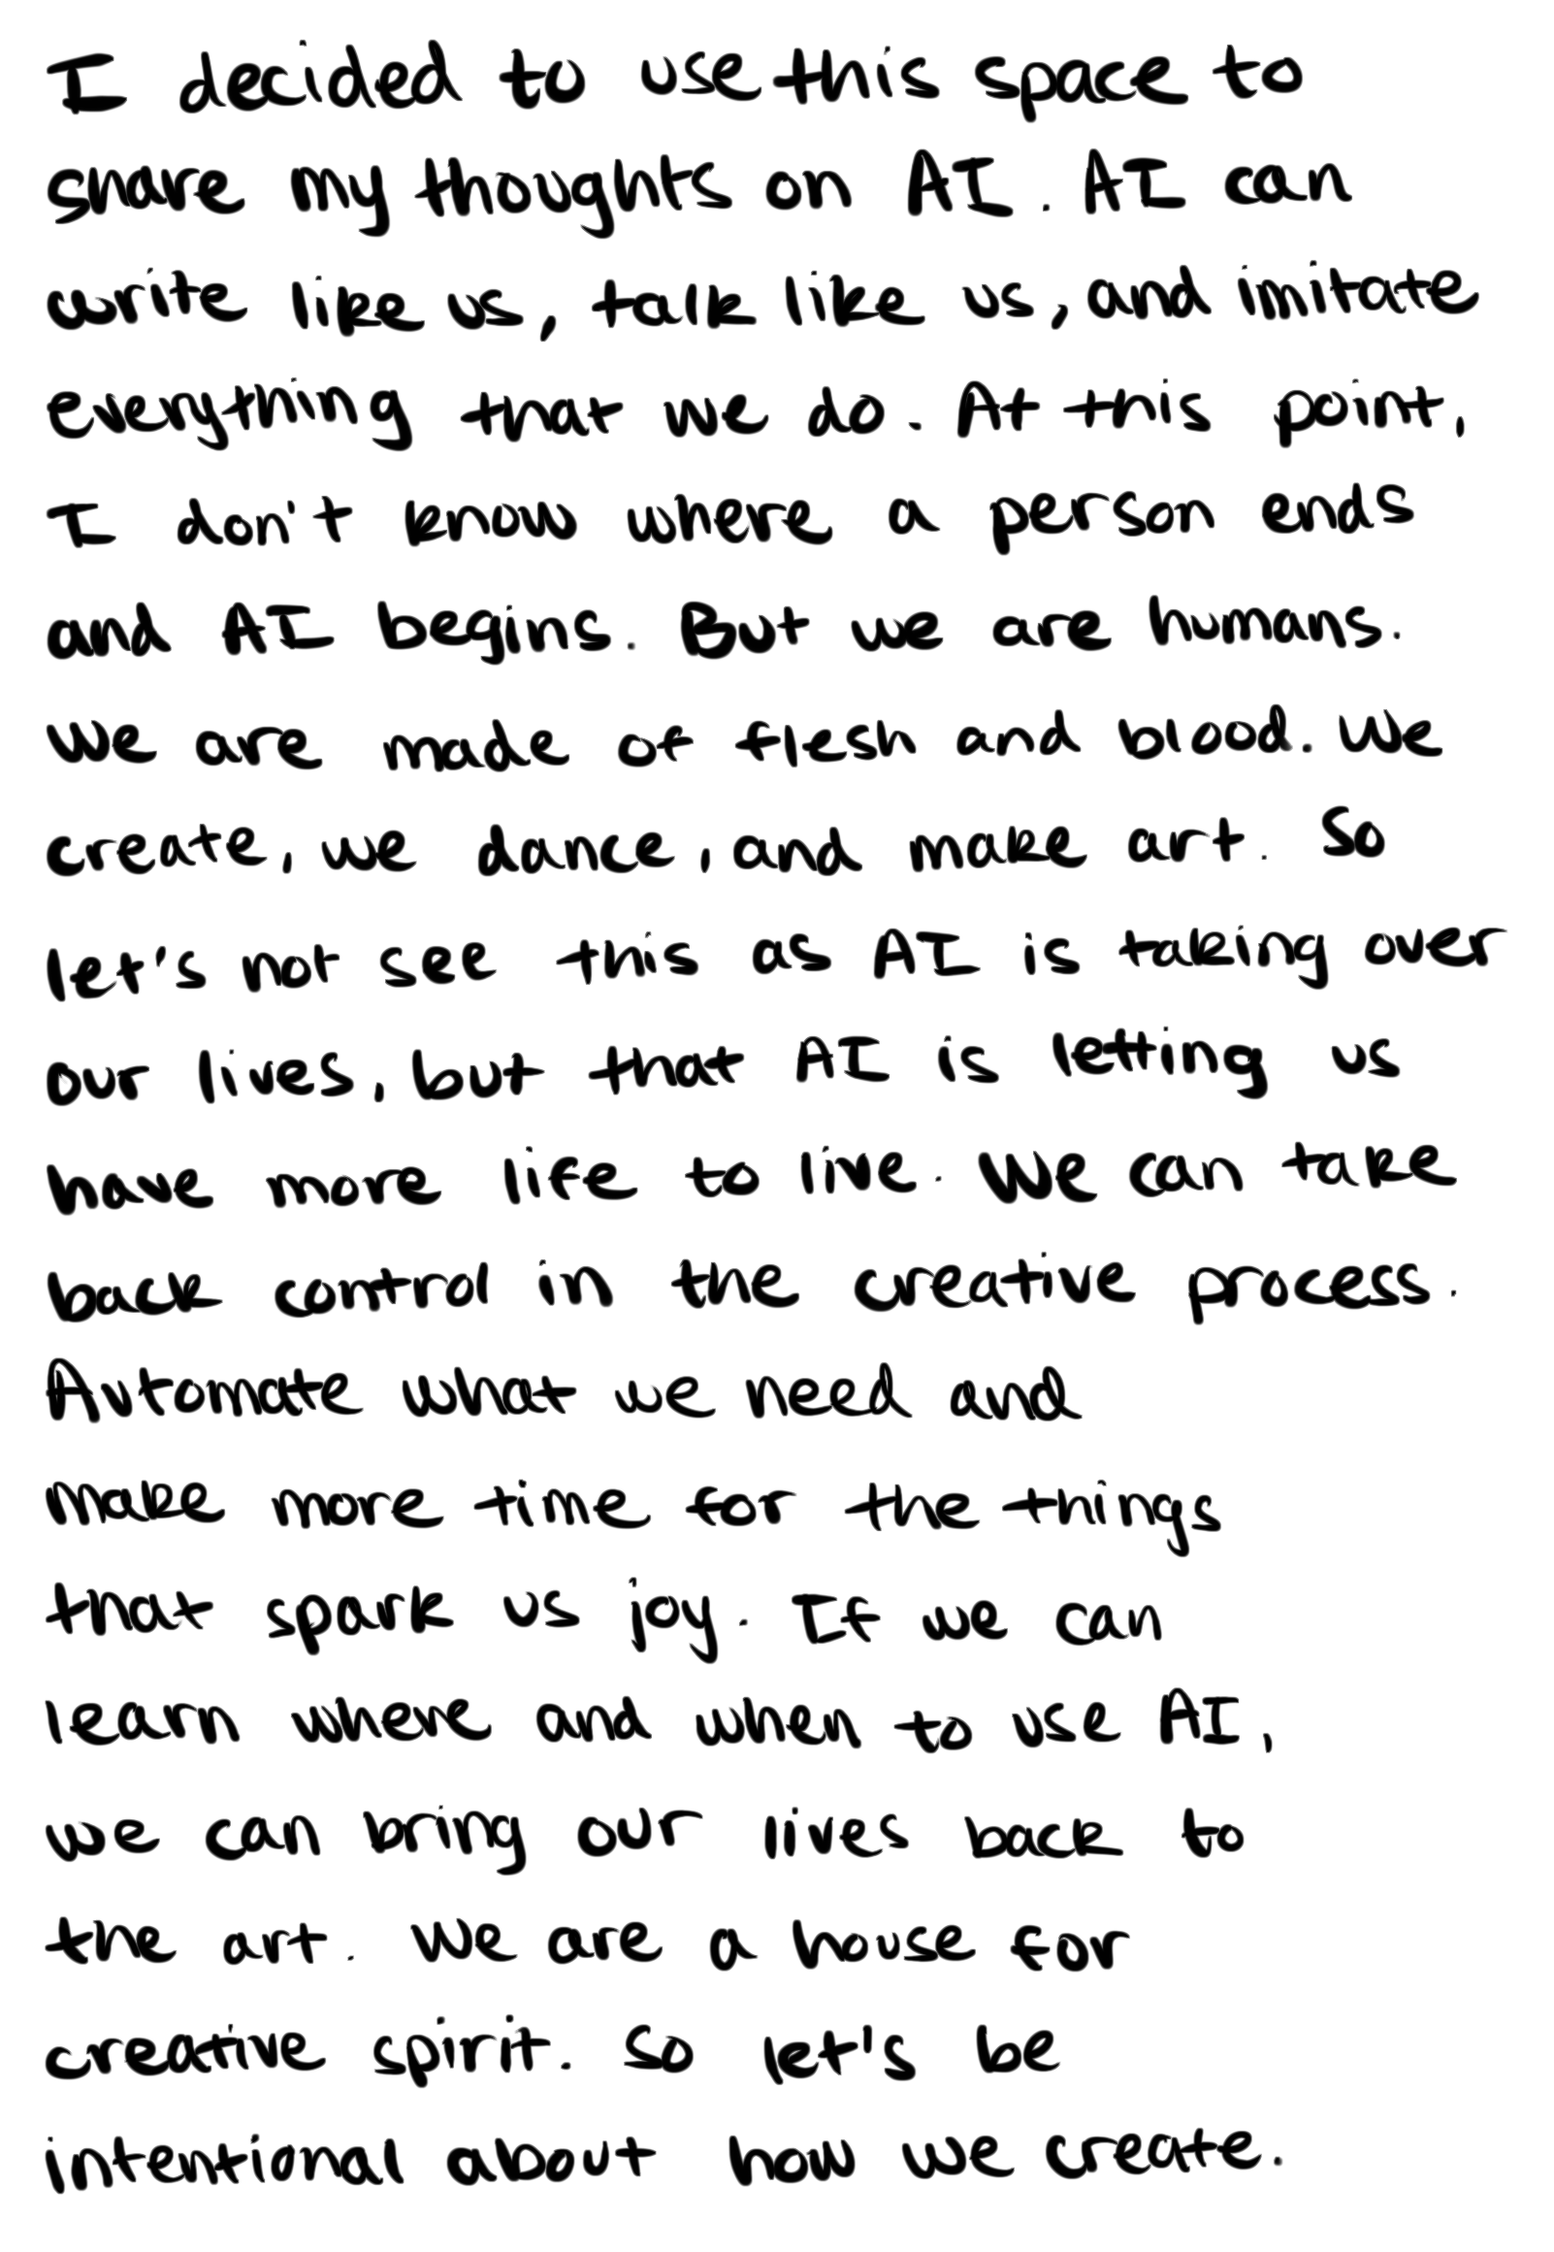
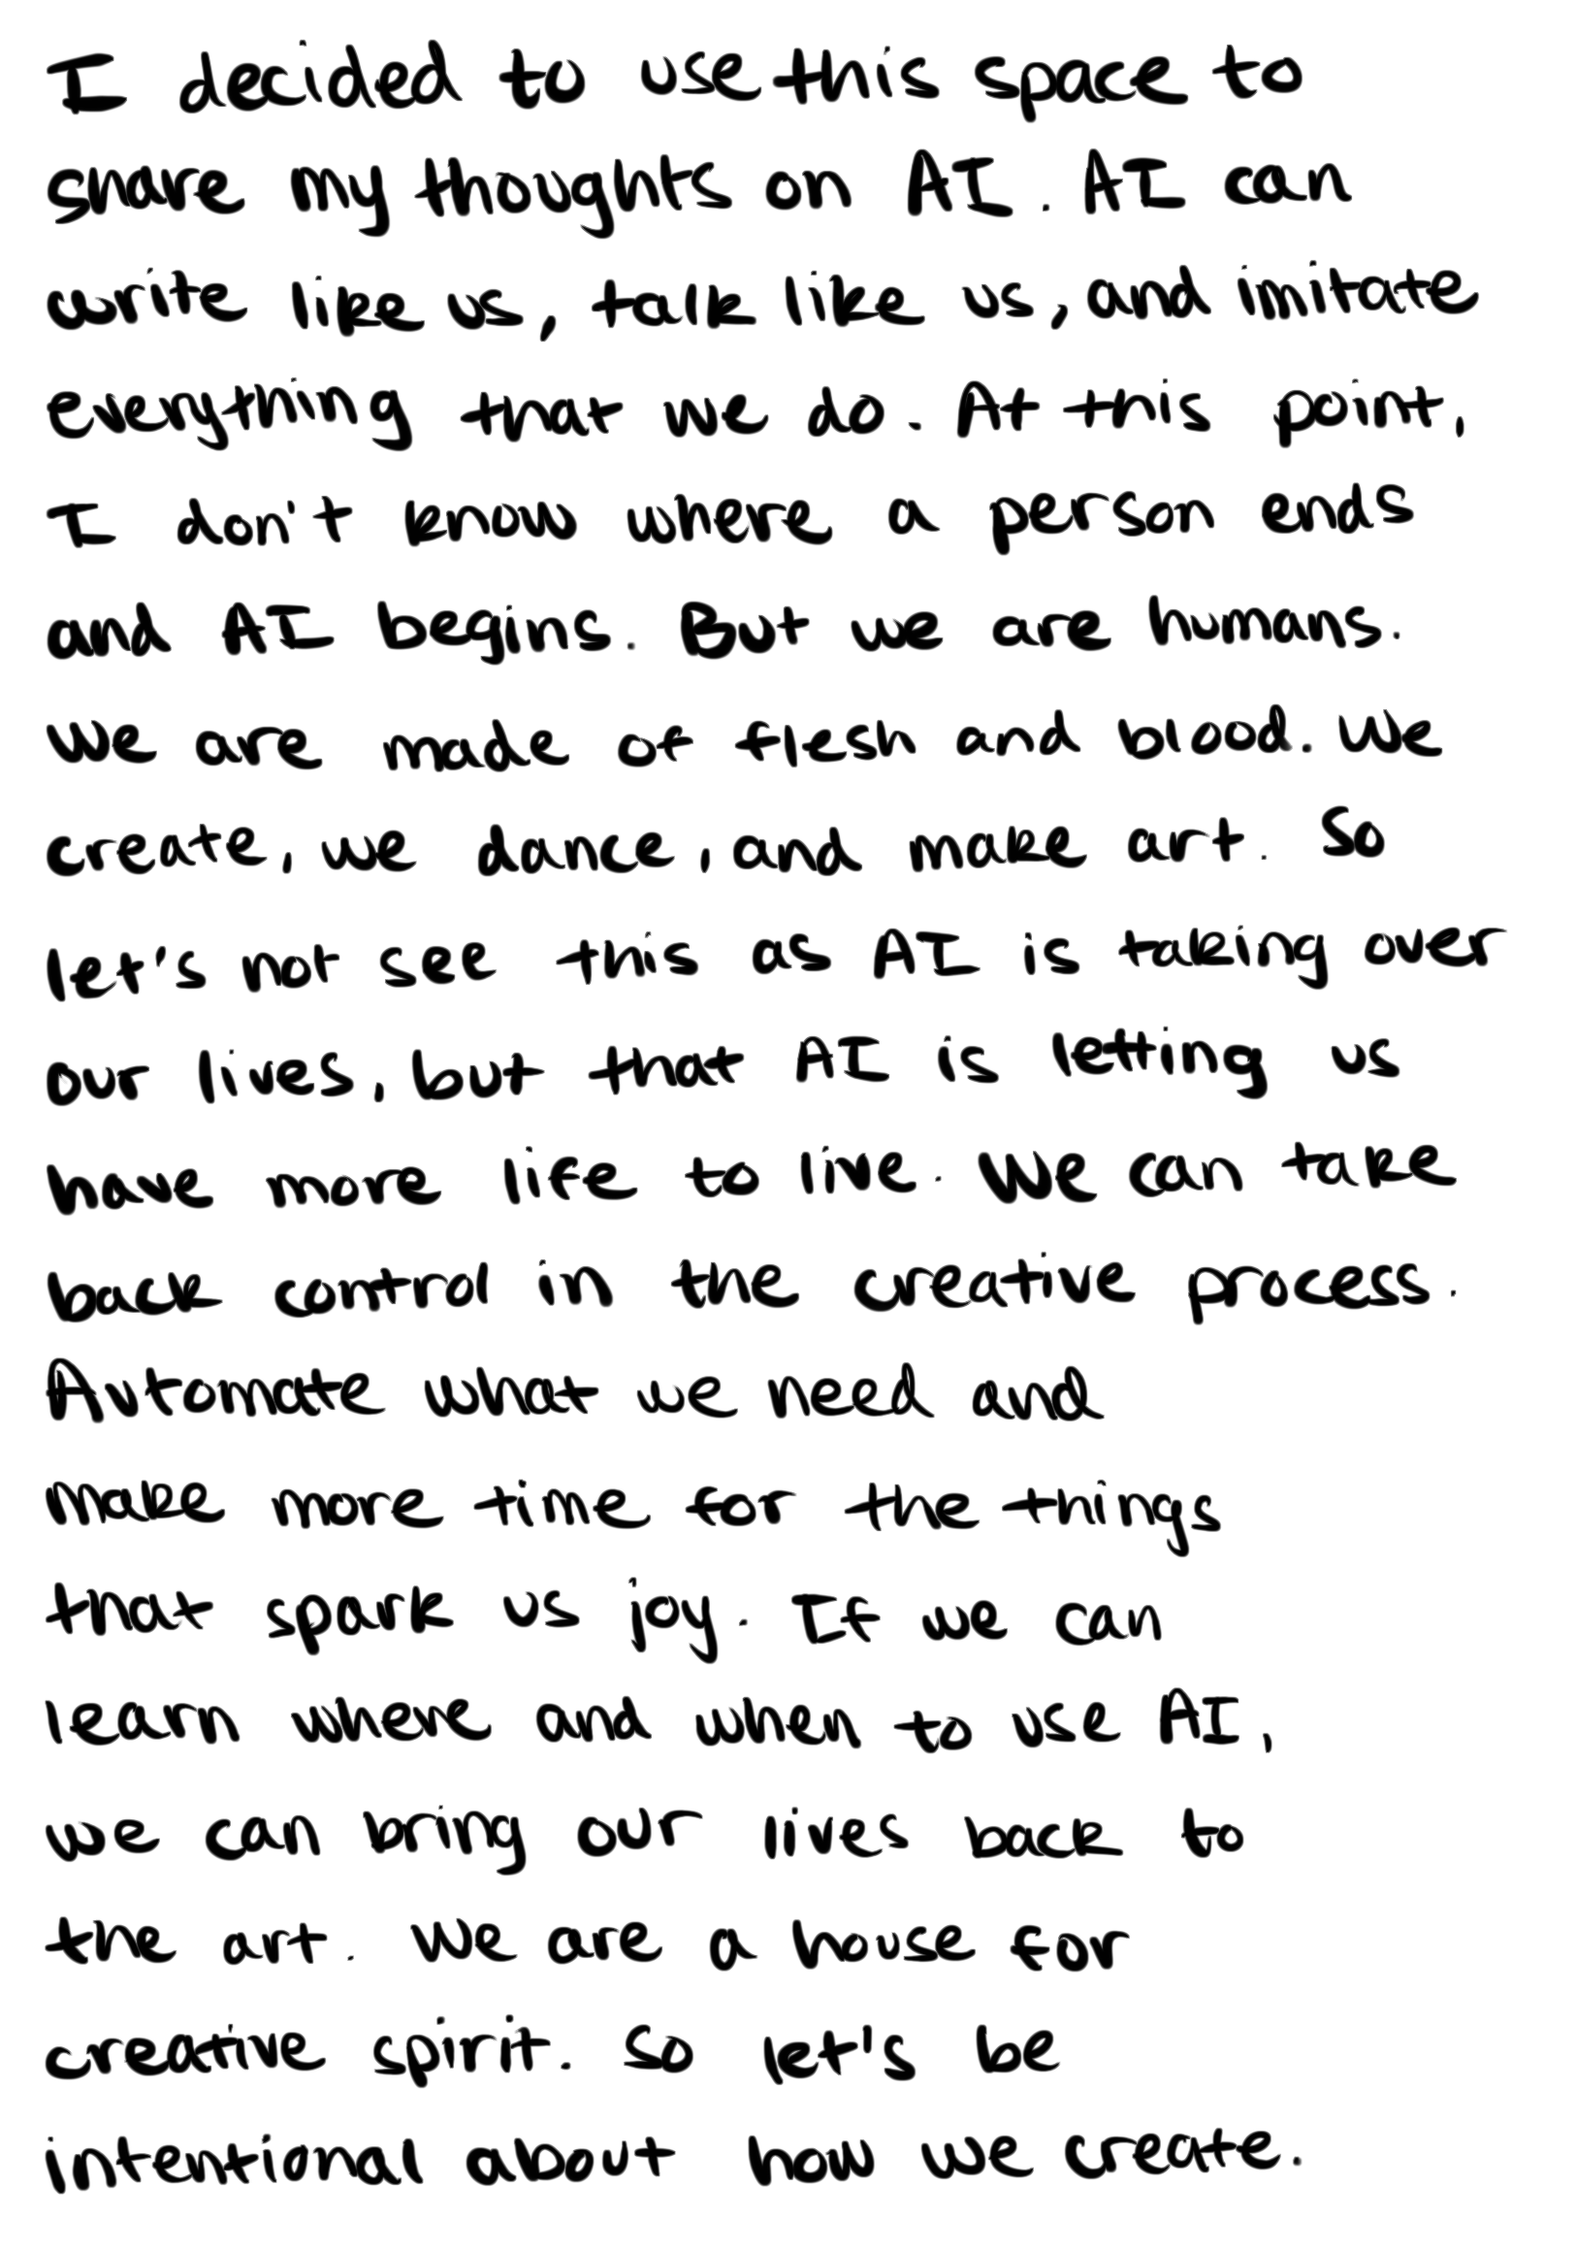
Good enough stop changing

diff --git a/src/pages/about/manifesto-words.ts b/src/pages/about/manifesto-words.ts
@@ -54,7 +54,7 @@ export const X_HEIGHT = 10;
 /** Full source-mask dimensions in the same normalized unit space. */
 export const MANIFESTO_SOURCES = {
   title: { w: 391.3, h: 521.8 },
-  body: { w: 387.0, h: 560.7 },
+  body: { w: 392.5, h: 560.7 },
 } as const;
 
 /** Build-time measurements used to match the two authored body exports. */
@@ -158,11 +158,11 @@ export const MANIFESTO_WORDS: ManifestoWord[] = [
   { t: "the", l: 12, s: "body", x: 166.2, y: 312.6, w: 33.8, h: 14.3, b: 12.8, n: 0.0, m: [] },
   { t: "creative", l: 12, s: "body", x: 211.6, y: 310.6, w: 72.0, h: 16.9, b: 14.5, n: 0.0, m: [{ x: 47.3, y: 0.5, w: 2.4, h: 2.7, mx: -259.0, my: -311.1 }] },
   { t: "process.", l: 12, s: "body", x: 294.9, y: 313.5, w: 68.6, h: 17.4, b: 11.6, n: 0.0, m: [{ x: 65.9, y: 7.2, w: 2.4, h: 2.7, mx: -360.9, my: -320.8 }] },
-  { t: "Automate", l: 13, s: "body", x: 10.4, y: 337.2, w: 81.2, h: 18.1, b: 15.0, n: 0.0, m: [] },
-  { t: "what", l: 13, s: "body", x: 99.3, y: 339.4, w: 45.2, h: 14.5, b: 12.6, n: 0.0, m: [] },
-  { t: "we", l: 13, s: "body", x: 152.2, y: 341.8, w: 26.8, h: 12.1, b: 10.6, n: 0.0, m: [] },
-  { t: "need", l: 13, s: "body", x: 184.8, y: 338.2, w: 43.2, h: 15.9, b: 14.0, n: 0.0, m: [] },
-  { t: "and", l: 13, s: "body", x: 235.8, y: 339.2, w: 34.8, h: 15.7, b: 14.0, n: 0.0, m: [] },
+  { t: "Automate", l: 13, s: "body", x: 10.4, y: 337.2, w: 86.7, h: 18.1, b: 15.0, n: 0.0, m: [] },
+  { t: "what", l: 13, s: "body", x: 104.8, y: 339.4, w: 45.2, h: 14.5, b: 12.6, n: 0.0, m: [] },
+  { t: "we", l: 13, s: "body", x: 157.7, y: 341.8, w: 26.8, h: 12.1, b: 10.6, n: 0.0, m: [] },
+  { t: "need", l: 13, s: "body", x: 190.3, y: 338.2, w: 43.2, h: 15.9, b: 14.0, n: 0.0, m: [] },
+  { t: "and", l: 13, s: "body", x: 241.3, y: 339.2, w: 34.8, h: 15.7, b: 14.0, n: 0.0, m: [] },
   { t: "make", l: 14, s: "body", x: 10.4, y: 367.7, w: 46.6, h: 13.0, b: 11.1, n: 0.0, m: [] },
   { t: "more", l: 14, s: "body", x: 66.7, y: 369.8, w: 44.7, h: 11.8, b: 10.1, n: 0.0, m: [] },
   { t: "time", l: 14, s: "body", x: 117.2, y: 367.4, w: 45.9, h: 14.3, b: 12.6, n: 0.0, m: [{ x: 11.6, y: 0.5, w: 3.1, h: 3.1, mx: -128.8, my: -367.9 }] },
@@ -202,9 +202,9 @@ export const MANIFESTO_WORDS: ManifestoWord[] = [
   { t: "So", l: 19, s: "body", x: 154.4, y: 503.2, w: 19.3, h: 14.0, b: 12.6, n: 0.0, m: [] },
   { t: "let's", l: 19, s: "body", x: 189.4, y: 503.2, w: 39.6, h: 16.9, b: 14.5, n: 0.0, m: [] },
   { t: "be", l: 19, s: "body", x: 242.3, y: 503.2, w: 22.7, h: 14.0, b: 12.6, n: 0.0, m: [] },
-  { t: "intentional", l: 20, s: "body", x: 10.4, y: 530.2, w: 91.1, h: 16.9, b: 13.3, n: 0.0, m: [{ x: 1.0, y: 1.2, w: 2.4, h: 2.4, mx: -11.4, my: -531.4 }, { x: 51.5, y: 0.5, w: 3.4, h: 3.6, mx: -61.8, my: -530.7 }] },
-  { t: "about", l: 20, s: "body", x: 110.4, y: 530.9, w: 53.9, h: 14.3, b: 12.1, n: 0.0, m: [] },
-  { t: "how", l: 20, s: "body", x: 180.7, y: 530.7, w: 33.3, h: 14.5, b: 12.6, n: 0.0, m: [] },
-  { t: "we", l: 20, s: "body", x: 223.7, y: 530.7, w: 29.7, h: 12.8, b: 11.1, n: 0.0, m: [] },
-  { t: "create.", l: 20, s: "body", x: 259.4, y: 528.8, w: 60.9, h: 14.7, b: 12.3, n: 0.0, m: [{ x: 57.2, y: 7.7, w: 3.4, h: 3.4, mx: -316.7, my: -536.5 }] },
+  { t: "intentional", l: 20, s: "body", x: 10.4, y: 530.2, w: 95.9, h: 16.9, b: 13.4, n: 0.0, m: [{ x: 1.2, y: 1.2, w: 2.4, h: 2.4, mx: -11.6, my: -531.4 }, { x: 54.4, y: 0.5, w: 3.4, h: 3.6, mx: -64.7, my: -530.7 }] },
+  { t: "about", l: 20, s: "body", x: 115.2, y: 530.9, w: 53.9, h: 14.3, b: 12.1, n: 0.0, m: [] },
+  { t: "how", l: 20, s: "body", x: 185.5, y: 530.7, w: 33.3, h: 14.5, b: 12.6, n: 0.0, m: [] },
+  { t: "we", l: 20, s: "body", x: 228.5, y: 530.7, w: 29.7, h: 12.8, b: 11.1, n: 0.0, m: [] },
+  { t: "create.", l: 20, s: "body", x: 264.3, y: 528.8, w: 60.9, h: 14.7, b: 12.3, n: 0.0, m: [{ x: 57.2, y: 7.7, w: 3.4, h: 3.4, mx: -321.5, my: -536.5 }] },
 ];

diff --git a/public/cs-final/cs-final.html b/public/cs-final/cs-final.html
@@ -223,9 +223,9 @@ figure img,.shot img{display:block;width:100%;height:auto;border:1px solid var(-
 @media (max-width:640px){.lyr{grid-template-columns:repeat(2,1fr)}}
 
 /* The component spec lives as one dark prototype, echoing the working rail above. */
-.tile-breakdown{margin-top:26px;background:var(--max-ink);border:1px solid var(--rule);
+.tile-breakdown{--breakdown-gap:19.2px;--specimen-gap:4.8px;--title-font-gap:16.848px;margin-top:26px;background:var(--max-ink);border:1px solid var(--rule);
   padding:clamp(18px,3vw,34px);overflow:hidden}
-.tile-breakdown-title{margin:0 0 19.2px;color:#fff;font-size:clamp(28px,3.8vw,44px);font-variation-settings:"wght" 640;
+.tile-breakdown-title{margin:0 0 var(--breakdown-gap);color:#fff;font-size:clamp(37.5px,5vw,55px);font-variation-settings:"wght" 640;
   letter-spacing:-.025em;line-height:1}
 .tile-breakdown .lyr{margin-top:0}
 .tile-breakdown .lyr-tile{border-color:rgba(255,255,255,.16)}
@@ -234,18 +234,18 @@ figure img,.shot img{display:block;width:100%;height:auto;border:1px solid var(-
   list-style:none;border-top:1px solid rgba(255,255,255,.16)}
 .layer-notes li{font-family:var(--fm);font-size:var(--fs-micro);line-height:1.65;color:#a6a6b0}
 .layer-notes b{display:block;color:#d8d8de;font-weight:400;margin-bottom:3px}
-.irid-palette{margin-top:26px}
+.irid-palette{margin-top:var(--specimen-gap)}
 .irid-palette-label{margin:0 0 12px;font-family:var(--fm);font-size:var(--fs-micro);letter-spacing:.12em;
   text-transform:uppercase;color:#a6a6b0}
 .gradient-scale{position:relative;padding-bottom:30px}
-.gradient-bar{position:relative;height:44px;border:1px solid rgba(255,255,255,.18);background-image:var(--irid-banner)}
+.gradient-bar{position:relative;height:44px;background-image:var(--irid-banner)}
 .gradient-bar span{position:absolute;bottom:0;height:9px;width:1px;background:rgba(10,10,16,.55)}
 .gradient-labels{position:absolute;left:0;right:0;top:51px;height:18px}
 .gradient-labels code{position:absolute;transform:translateX(-50%);font-family:var(--fm);font-size:var(--fs-micro);
   line-height:1;color:#a6a6b0;white-space:nowrap}
 .gradient-labels code:first-child{transform:none}
 .gradient-labels code:last-child{transform:translateX(-100%)}
-.title-font-spec{display:inline-block;margin:26px 0 0;font-size:clamp(30px,4vw,48px);font-variation-settings:"wght" 640;
+.title-font-spec{display:inline-block;margin:var(--title-font-gap) 0 0;font-size:clamp(30px,4vw,48px);font-variation-settings:"wght" 640;
   letter-spacing:-.025em;line-height:1;background-image:var(--irid-banner);-webkit-background-clip:text;background-clip:text;color:transparent}
 @media (max-width:640px){.layer-notes{grid-template-columns:repeat(2,1fr)}}
 

diff --git a/src/pages/about/about.css b/src/pages/about/about.css
@@ -157,6 +157,7 @@
   --mf-body-row-step: clamp(26.4995px, calc(1.637685vw + 20.13965px), 41.09975px);
   width: calc(100% - (var(--grid-minor-step) * 2));
   margin-left: calc(var(--grid-minor-step) - 4px);
+  transform: translateY(1px);
   row-gap: 0;
 }
 
@@ -199,7 +200,7 @@
   align-self: start;
   /* Title height (48.8u) plus its body gap (10u) places the portrait at the
      visual start of the first body line rather than the title's top edge. */
-  margin-top: calc(var(--mf-title-u) * 58.8);
+  margin-top: calc(var(--mf-title-u) * 58.8 + 3px);
   width: clamp(250px, 26.25vw, 375px);
   aspect-ratio: 3 / 4;
   height: auto;

diff --git a/scripts/manifesto/build.py b/scripts/manifesto/build.py
@@ -81,6 +81,15 @@ LATE_BODY_START_LINE = 13
 LATE_BODY_DILATION_RADIUS = 0.625
 FRACTIONAL_DILATION_SCALE = 2
 
+# The second authored export is slightly tighter inside a couple of long
+# words. A restrained local width adjustment opens their internal rhythm while
+# leaving the rest of every line untouched. This resamples authored alpha only:
+# no tracing, smoothing, or redrawing.
+LATE_WORD_LETTER_SPACING = {
+    (13, "Automate"): {"scale": 1.07},
+    (20, "intentional"): {"scale": 1.055},
+}
+
 ALPHA_THRESHOLD = 4   # includes antialiasing while ignoring zero-alpha canvas
 MIN_SPECK = 5         # smallest confident tittle in the authored body export
 FAINT_SPECK_ALPHA = 64  # reject tiny export dust unless its alpha is confident
@@ -506,6 +515,91 @@ def segment_source(path, text, line_offset, key):
     )
 
 
+def write_letter_spaced_body_mask(source_path, source, output_path):
+    """Open selected authored words with a smooth, restrained local resample."""
+    image = Image.open(source_path).convert("RGBA")
+    pixels = np.asarray(image)
+    corrections = {}
+
+    for (line, text), adjustment in LATE_WORD_LETTER_SPACING.items():
+        word = next(
+            (
+                row for row in source["rows"]
+                if row["line"] == line and row["text"] == text
+            ),
+            None,
+        )
+        if word is None:
+            sys.exit(f"missing letter-spacing target: line {line} {text!r}")
+        corrections.setdefault(line, []).append(
+            (word, adjustment["scale"])
+        )
+
+    max_insert = max(
+        sum(
+            round((word["x1"] - word["x0"] + 1) * scale)
+            - (word["x1"] - word["x0"] + 1)
+            for word, scale in words
+        )
+        for words in corrections.values()
+    )
+    result = np.zeros(
+        (image.height, image.width + max_insert, 4),
+        dtype=pixels.dtype,
+    )
+
+    centers = [(start + stop) / 2 for start, stop in source["bands"]]
+    boundaries = [0]
+    boundaries.extend(
+        round((left + right) / 2)
+        for left, right in zip(centers, centers[1:])
+    )
+    boundaries.append(image.height)
+
+    for index, (top, bottom) in enumerate(
+        zip(boundaries, boundaries[1:])
+    ):
+        line = index + len(TITLE_TEXT)
+        words = sorted(
+            corrections.get(line, []),
+            key=lambda correction: correction[0]["x0"],
+        )
+        source_x = 0
+        destination_x = 0
+        for word, scale in words:
+            word_left = min(max(word["x0"], source_x), image.width)
+            word_right = min(max(word["x1"] + 1, word_left), image.width)
+            width = word_left - source_x
+            result[
+                top:bottom,
+                destination_x:destination_x + width,
+            ] = pixels[top:bottom, source_x:word_left]
+            destination_x += width
+
+            word_crop = Image.fromarray(
+                pixels[top:bottom, word_left:word_right]
+            )
+            target_width = round(word_crop.width * scale)
+            word_crop = word_crop.resize(
+                (target_width, word_crop.height),
+                Image.Resampling.LANCZOS,
+            )
+            result[
+                top:bottom,
+                destination_x:destination_x + target_width,
+            ] = np.asarray(word_crop)
+            destination_x += target_width
+            source_x = word_right
+
+        remaining = image.width - source_x
+        result[
+            top:bottom,
+            destination_x:destination_x + remaining,
+        ] = pixels[top:bottom, source_x:]
+
+    Image.fromarray(result).save(output_path)
+
+
 def main():
     ap = argparse.ArgumentParser()
     ap.add_argument("--title-src",
@@ -528,9 +622,18 @@ def main():
         pathlib.Path(args.body_part_2_src),
         normalized_body,
     )
+    normalized_body_source = segment_source(
+        normalized_body, BODY_TEXT, len(TITLE_TEXT), "body",
+    )
+    letter_spaced_body = MASKS / "manifesto-body-letter-spaced.png"
+    write_letter_spaced_body_mask(
+        normalized_body,
+        normalized_body_source,
+        letter_spaced_body,
+    )
     source_paths = {
         "title": pathlib.Path(args.title_src),
-        "body": normalized_body,
+        "body": letter_spaced_body,
     }
     write_dilated_mask(
         source_paths["title"],

diff --git a/scripts/manifesto/README.md b/scripts/manifesto/README.md
@@ -21,11 +21,15 @@ and baseline pitch of both:
 2. Body part 2 is uniformly scaled to part 1’s measured x-height.
 3. All 20 source lines are stacked on part 1’s measured line step.
 4. The normalized result is saved as `manifesto-body-normalized.png`.
+5. The two visibly crowded long words in the second export receive a small,
+   local horizontal resample and are saved in
+   `manifesto-body-letter-spaced.png`.
 
-This normalization changes only scale and line placement. Each handwritten
-line’s internal letterforms, joins, spacing, dots, and punctuation remain
-authored pixels. The browser then crops one mask per whole word so flexbox can
-wrap only between words.
+The broad normalization changes only scale and line placement. The two local
+spacing adjustments preserve their continuous authored alpha and do not trace
+or redraw any letter. Every other internal letterform, join, space, dot, and
+punctuation mark remains untouched. The browser then crops one mask per whole
+word so flexbox can wrap only between words.
 
 The copy edit “and **where** AI begins” reuses the later authored `where` from
 “learn where and when.” Its crop coordinates are duplicated in the generated
